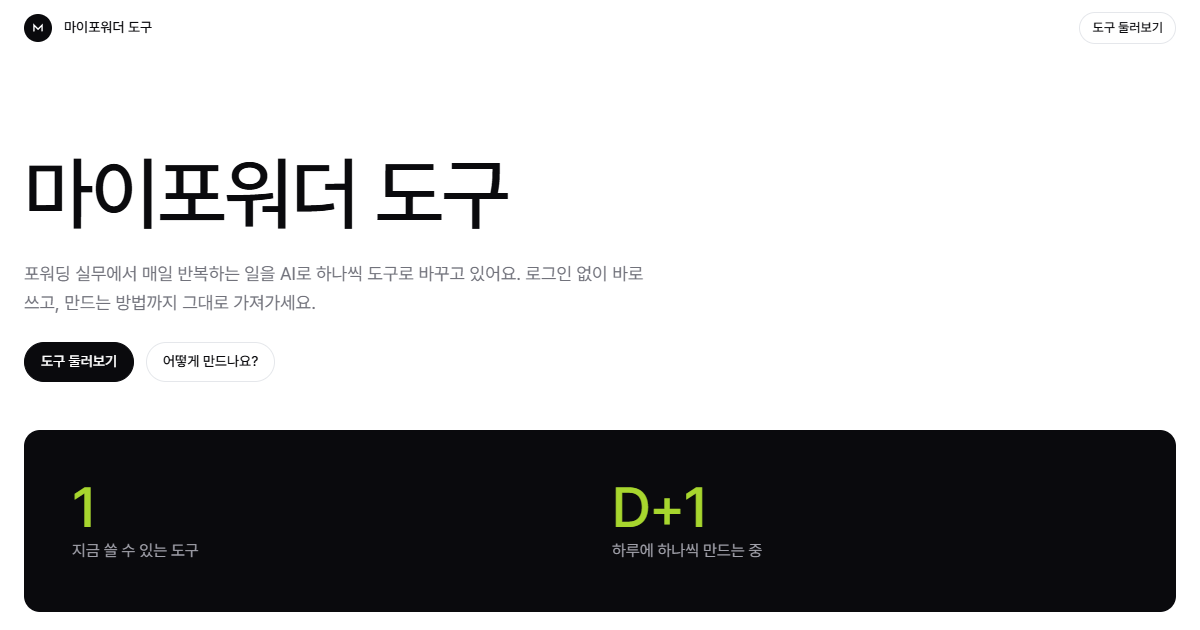
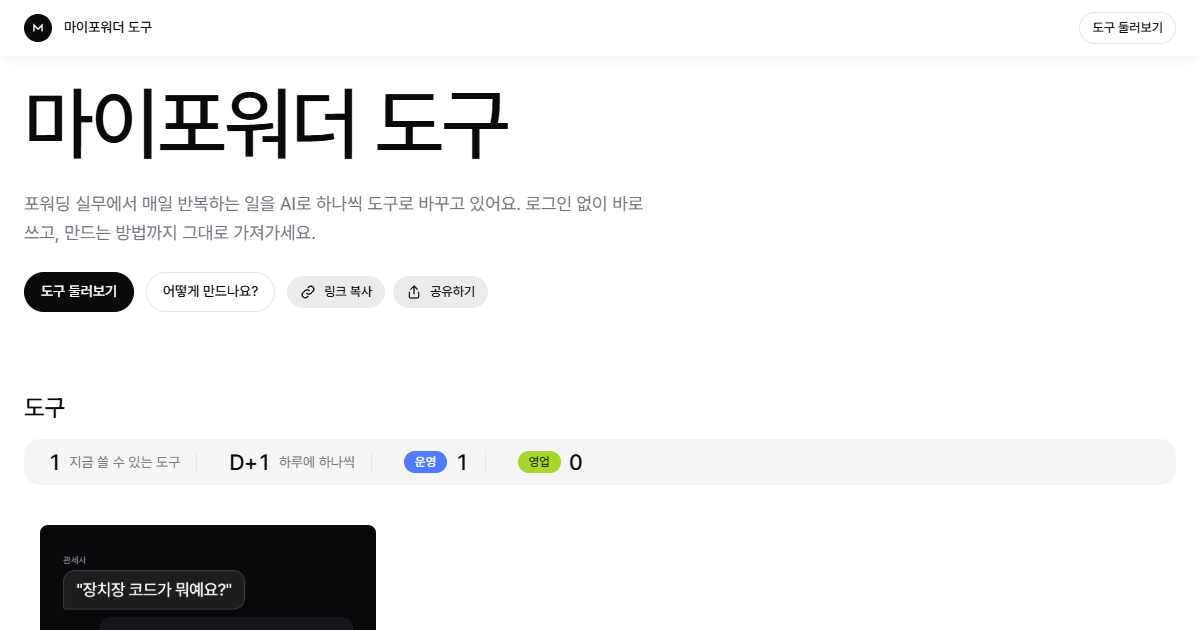
랜딩: 검정 현황판을 연한 회색 한 줄로 축소, 모바일 목차 옅은 회색 카드

diff --git a/index.html b/index.html
@@ -23,19 +23,29 @@
   .hero { display: grid; gap: var(--space-6); padding: var(--space-16) 0 var(--space-12); }
   .hero .body-l { max-width: 640px; }
   .hero__actions { display: flex; flex-wrap: wrap; gap: var(--space-3); }
-  .band { display: grid; grid-template-columns: repeat(2, minmax(0, 1fr)); gap: var(--space-6); padding: var(--space-12); background: var(--bg-dark); color: var(--on-dark); border-radius: var(--radius-md); }
-  .band__num { color: var(--accent-sales); }
-  .band__label { color: var(--on-dark-2); }
-  .areas { display: grid; grid-template-columns: repeat(2, minmax(0, 1fr)); gap: var(--space-6); }
+  /* 현황 한 줄 — 도구 카드(검정 썸네일)가 주인공이 되도록 연한 회색·작은 숫자로 */
+  .stats {
+    display: flex; flex-wrap: wrap; align-items: center; gap: var(--space-3) 0;
+    padding: var(--space-3) var(--space-2);
+    background: color-mix(in srgb, var(--ink) 4%, var(--bg));
+    border-radius: var(--radius-md);
+  }
+  .stat { display: flex; align-items: center; gap: var(--space-2); padding: 0 var(--space-4); }
+  .stat + .stat { border-left: 1px solid var(--line); }
+  .stat b { font-size: 22px; font-weight: 500; letter-spacing: -0.02em; line-height: 1; font-variant-numeric: tabular-nums; }
+  .stat > span:not(.tag) { font-size: 14px; color: var(--ink-2); }
+  .stat .tag { padding: 4px 10px; font-size: 12px; }
+  .tools-head { display: grid; gap: var(--space-4); }
   .landing-section { display: grid; gap: var(--space-6); margin-top: var(--space-24); }
+  #tools { margin-top: var(--space-8); }
   .landing-section:empty { display: none; }
   .empty { padding: var(--space-12) var(--space-6); text-align: center; color: var(--ink-2); background: var(--card); border-radius: var(--radius-md); }
   @media (max-width: 768px) {
     .hero .display-xl { font-size: 48px; }
-    .band, .areas { grid-template-columns: minmax(0, 1fr); padding: var(--space-8); }
-    .areas { padding: 0; }
-    .band .display-l { font-size: 44px; }
+    .stats { display: grid; grid-template-columns: repeat(2, minmax(0, 1fr)); padding: var(--space-3) 0; }
+    .stat:nth-child(3) { border-left: 0; }
     .landing-section { margin-top: var(--space-16); }
+    #tools { margin-top: var(--space-4); }
   }
 </style>
 </head>
@@ -60,20 +70,16 @@
     </div>
   </section>
 
-  <section class="band" data-reveal aria-label="숫자로 보기">
-    <div><p class="display-l band__num" id="n-tools">0</p><p class="body band__label">지금 쓸 수 있는 도구</p></div>
-    <div><p class="display-l band__num" id="n-day">D+0</p><p class="body band__label">하루에 하나씩 만드는 중</p></div>
-  </section>
-
-  <section class="landing-section" data-reveal aria-label="영역">
-    <div class="areas">
-      <div class="area-card" data-area="sales"><p class="display-l area-card__number" id="n-sales">0</p><h2 class="heading-2">영업</h2><p class="body area-card__desc">견적·운임 계산과 고객 응대를 더 빠르게</p></div>
-      <div class="area-card" data-area="ops"><p class="display-l area-card__number" id="n-ops">0</p><h2 class="heading-2">운영</h2><p class="body area-card__desc">통관·선적·서류 확인을 더 빠르게</p></div>
-    </div>
-  </section>
-
   <section class="landing-section" id="tools" data-reveal>
-    <h2 class="heading-2">도구</h2>
+    <div class="tools-head">
+      <h2 class="heading-2">도구</h2>
+      <div class="stats" aria-label="현황">
+        <div class="stat"><b id="n-tools">0</b><span>지금 쓸 수 있는 도구</span></div>
+        <div class="stat"><b id="n-day">D+0</b><span>하루에 하나씩</span></div>
+        <div class="stat" title="통관·선적·서류 확인을 더 빠르게"><span class="tag tag-area" data-area="ops">운영</span><b id="n-ops">0</b></div>
+        <div class="stat" title="견적·운임 계산과 고객 응대를 더 빠르게"><span class="tag tag-area" data-area="sales">영업</span><b id="n-sales">0</b></div>
+      </div>
+    </div>
     <div id="grid"></div>
   </section>
 

diff --git a/shared/components.css b/shared/components.css
@@ -238,11 +238,12 @@
 .page-toc__list a.is-active { color: var(--ink-2); font-weight: 500; border-left-color: var(--ink-3); }
 @media (max-width: 768px) {
   .page-toc { right: var(--space-4); bottom: var(--space-4); }
-  /* 모바일: 펼치면 흰 카드로 또렷하게(투명하면 뒤 화면과 겹쳐 누르기 어려움). 바깥을 누르면 닫힌다(page.js) */
+  /* 모바일: 펼치면 옅은 회색 카드로 떠 보이게(흰색은 바탕과 구분이 약함). 바깥을 누르면 닫힌다(page.js) */
+  .page-toc__pill { background: color-mix(in srgb, var(--ink) 6%, var(--bg)); border-color: var(--line); }
   .page-toc__panel {
     width: min(280px, calc(100vw - 32px));
     padding: var(--space-3);
-    background: var(--card-raised);
+    background: color-mix(in srgb, var(--ink) 6%, var(--bg));
     border: 1px solid var(--line);
     border-radius: var(--radius-md);
     box-shadow: var(--card-hover);
@@ -250,7 +251,7 @@
   .page-toc__head .eyebrow { color: var(--ink-2); }
   .page-toc__list { border-left: 0; gap: 2px; }
   .page-toc__list a { margin-left: 0; border-left: 0; padding: 10px var(--space-3); border-radius: var(--radius-sm); font-size: 15px; color: var(--ink-2); }
-  .page-toc__list a.is-active { background: var(--accent-soft); color: var(--ink); }
+  .page-toc__list a.is-active { background: var(--card-raised); color: var(--ink); box-shadow: var(--card-rest); }
   .has-toc .toast { bottom: 72px; } /* 접힌 목차 알약과 겹치지 않게 */
 }
 @media print { .page-toc { display: none; } }

diff --git a/docs/progress.md b/docs/progress.md
@@ -4,6 +4,13 @@
 
 ---
 
+## 2026-10-20 · VS Code · 랜딩 현황판 축소·모바일 목차 회색
+
+- 완료한 일: 랜딩의 검정 숫자 밴드·영업/운영 영역 카드(검정 박스 3개)를 없애고 "도구" 제목 아래 연한 회색 한 줄 현황(지금 쓸 수 있는 도구 · D+N · 운영 n · 영업 n, 영역은 태그 알약)으로 축소 — 검정 썸네일 도구 카드가 주인공이 되게. 모바일 목차 알약·펼친 카드를 옅은 회색 면+그림자로(활성 항목은 흰 칩). 랜딩 공유 이미지(site-og.png) 다시 촬영. 검증 6/6, 콘솔 오류 0
+- 결정한 것: 디자인 시스템 README의 랜딩 구성(숫자 밴드 bg-dark·AreaCard)에서 벗어나 현황을 보조 정보로 낮춤 — 도구 썸네일이 검정 스타일로 바뀌어 검정 블록이 겹쳤기 때문
+- 막힌 것: 없음
+- 다음 할 일: 배포 반영 확인 → (선택) 랜딩 공유 이미지를 검정 틀 스타일로 → 카카오 키 → D02
+
 ## 2026-10-20 · VS Code · D01 마무리: 모바일 목차·공유 버튼 보강
 
 - 완료한 일: 모바일(768px 이하) 목차를 펼치면 흰 카드·그림자로 띄우고 바깥 누르기·Esc·항목 선택으로 닫히게(투명 패널이 화면 클릭을 막던 문제 해결). 공유 버튼을 연한 회색(.btn-soft)으로. "카카오톡 공유" 버튼 추가 — site.json kakao.jsKey가 있을 때만 보이고, 누를 때 카카오 SDK 2.8.3을 SRI 고정으로 불러와 Kakao.Share.sendScrap(가짜 키로 로드·초기화까지 확인). CLAUDE.md 외부 스크립트 예외에 카카오 SDK 추가. 검증 6/6, 콘솔 오류 0
